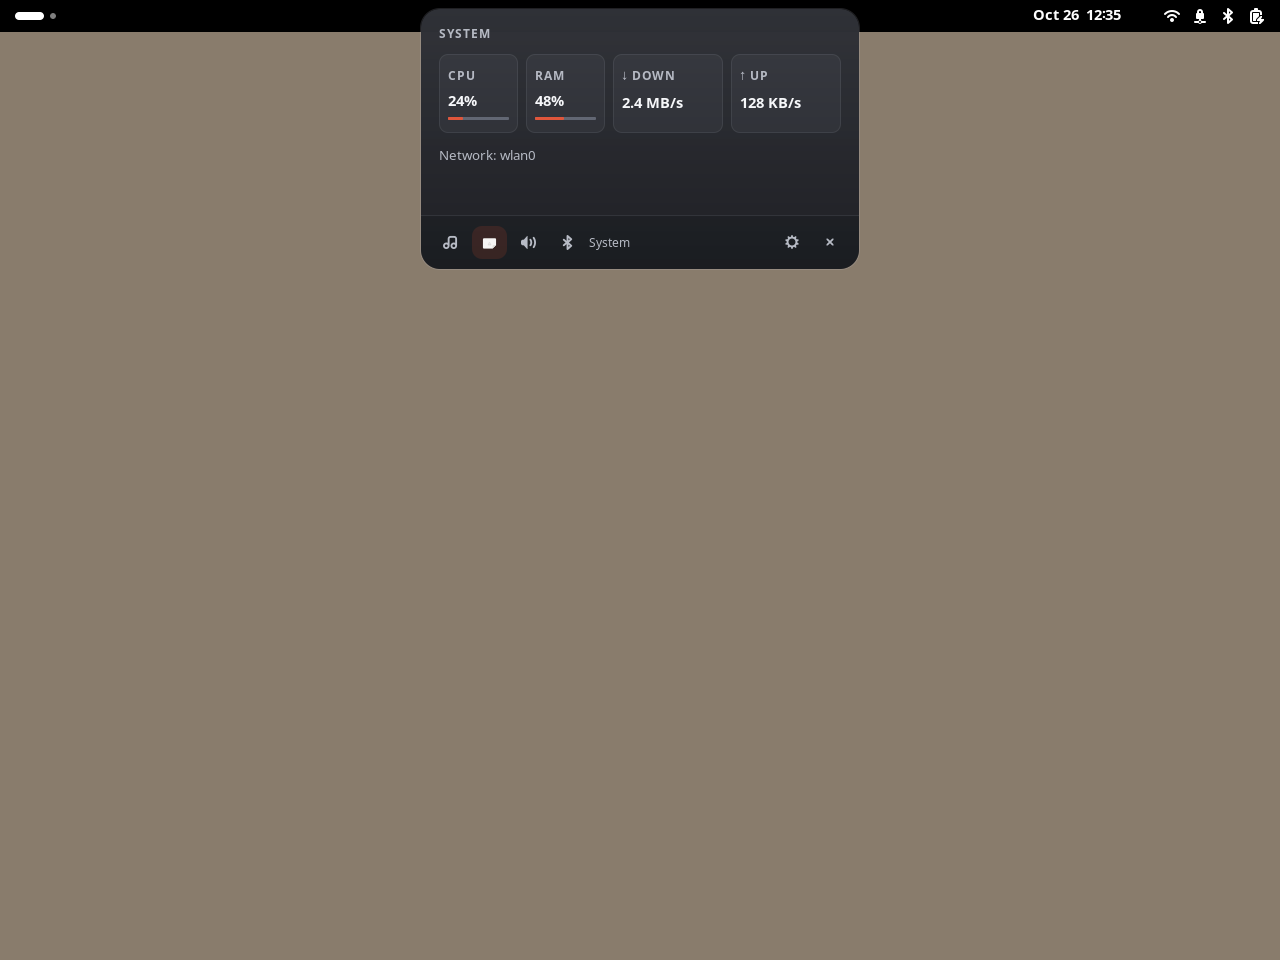
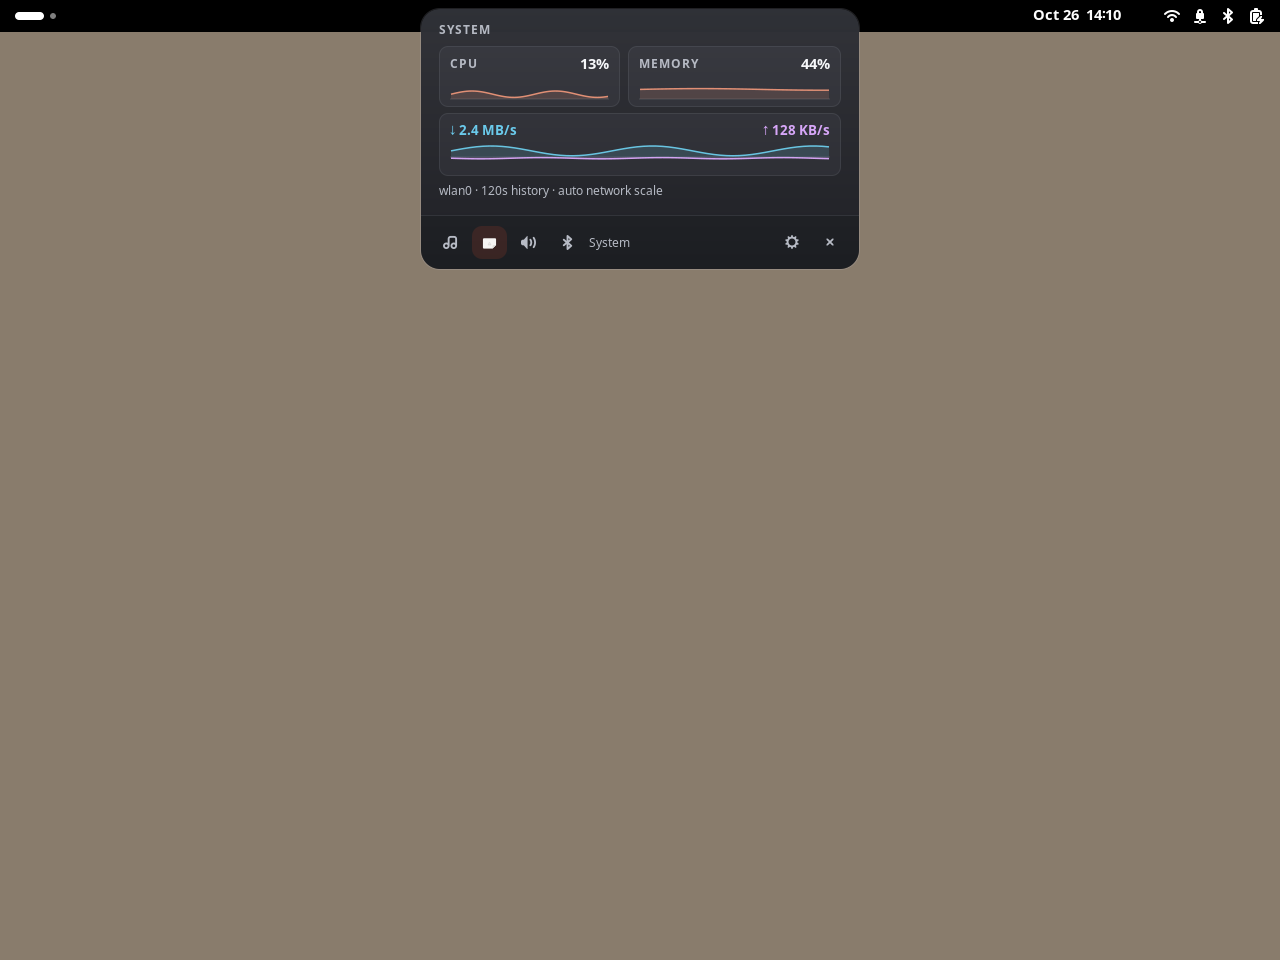
docs: document v6 settings and chart performance

Changed region(s): [[0.3438, 0.0312, 0.6562, 0.2188], [0.8438, 0.0, 0.875, 0.0312]]

diff --git a/README.md b/README.md
@@ -37,6 +37,8 @@ and [compact playing pill](screenshots/playing-pill.png).
   remain controllable. Seeking uses GNOME's native keyboard-accessible slider.
 - **System**: CPU and RAM percentages plus RX/TX rate for the lowest-metric
   default-route interface (VPN tunnels win), read asynchronously from procfs.
+  CPU and memory have fixed 0–100% history charts. Download and upload share
+  a mirrored chart (download above, upload below), with an automatic shared scale.
 - **Audio**: GNOME's shared Gvc mixer, volume slider, mute, and **output
   device selection through `change_output(Gvc.MixerUIDevice)`** (port/profile
   aware), seeded from existing sinks and updated through Gvc output signals.
@@ -46,7 +48,8 @@ and [compact playing pill](screenshots/playing-pill.png).
   pairing stays in GNOME Settings. Operations show pending states and inline
   failures. Audio and Bluetooth rows are retained across updates to preserve
   focus. A scroll container keeps controls reachable on short displays.
-- **Preferences** (`prefs.js` + GSettings): widths, animation duration,
+- **Preferences** (`prefs.js` + GSettings): live Graphite/Ocean/Forest/Ember themes,
+  background opacity (70–100%, default 98%), widths, animation duration,
   reduced animation, hover behavior, metrics interval, module toggles,
   remote-art toggle, clock relocation.
 - Full `disable()` cleanup of timers, signal handlers, D-Bus subscriptions,
@@ -130,6 +133,7 @@ ubuntu-dynamic-island/
   extension.js            # lifecycle, service wiring, clock relocation
   island.js               # morphing surface + interaction state machine
   card.js                 # expanded content sections
+  charts.js               # native drawing actors for bounded history
   pill.js                 # compact pill content
   widgets.js              # shared St widget factories
   prefs.js                # preferences dialog (GSettings)
@@ -161,3 +165,29 @@ and unavailable HDMI ports are filtered with live availability updates.
 Verification includes 26 Node tests, preferences module import, and headless
 GNOME rendering with twelve real pointer hover/click cycles and 200% scaling.
 Physical mixed-monitor and HDMI hotplug acceptance still need a session reload.
+
+### Lightweight charts and appearance (v6)
+
+Theme and opacity changes apply immediately after opening preferences. Opacity
+only affects the background; text and controls stay fully opaque. No blur was added.
+
+Charts share the existing metrics sampler (default: once every two seconds).
+Four 60-sample typed buffers use 1,920 bytes for history; there are no extra timers,
+network requests, chart libraries, or chart animations. Hidden charts collect
+samples without requesting repaints. Disable System metrics to stop sampling.
+Missing samples leave gaps; network history resets when the active interface changes.
+The history window is 60 sampling intervals (two minutes at the default).
+
+Validated with 30 Node tests, real GTK preferences bindings, and isolated GNOME
+rendering at normal and 200% scale. The smoke test covers live theme/opacity changes
+and verifies hidden charts do not repaint. These checks are not a battery-life or
+whole-desktop performance benchmark.
+
+To check the real preferences controls without changing user settings (requires
+an available desktop display):
+
+```sh
+glib-compile-schemas --strict schemas
+GSETTINGS_BACKEND=memory GI_TYPELIB_PATH=/usr/lib/gnome-shell/girepository-1.0 \
+  LD_LIBRARY_PATH=/usr/lib/gnome-shell gjs -m tests/prefs-smoke.mjs
+```

diff --git a/AGENT.md b/AGENT.md
@@ -2,7 +2,7 @@
 
 ## Scope and environment
 
-- The repository root is the current extension (v5): entry points and build
+- The repository root is the current extension (v6): entry points and build
   scripts at root, with `services/`, `schemas/`, `tests/`, and `screenshots/`.
   Obsolete prototypes were removed; consult Git history if needed.
 - Target GNOME Shell 46 on Ubuntu Wayland. See `README.md` for development
@@ -17,6 +17,11 @@
 - Keep Ricelin’s compact artwork-and-controls composition and separate module
   tabs. Current direction is matte graphite, 98–99% opacity, Noto Sans, and
   restrained vermilion controls. Do not restore the old brown palette or clear glass.
+- Theme and background opacity preferences apply live. Keep text fully opaque.
+- Charts use the existing metrics sampler and four 60-sample typed buffers.
+  Never add a per-frame animation, independent polling, or hidden repaint loop.
+  CPU/memory use fixed percentage scales; network shares an automatic scale,
+  with download above the baseline and upload below. Reset on interface changes.
 - Keep navigation outside scrolling content so switching pages leaves the
   footer stable. Preserve device rows and focus across service updates.
 - The idle notch has no “Island” label or placeholder music icon. Playing and
@@ -72,7 +77,7 @@ checks rendering, idle media, artwork decoding, repeated pointer hover/clicks,
 Artifacts stay in its printed `/tmp/ubuntu-island-smoke-*` directory. Keep
 only README-linked example screenshots in the repository.
 
-v5 passed 26 Node tests, syntax/schema checks, preferences module import, and
+v6 passed 30 Node tests, syntax/schema checks, preferences module import, and
 headless GNOME tests. These do not establish physical mixed-monitor rendering,
 HDMI hotplug/routing, live MPRIS control, Bluetooth, suspend/resume, or fullscreen
 behavior. Run the README hardware acceptance checks before claiming those pass.
